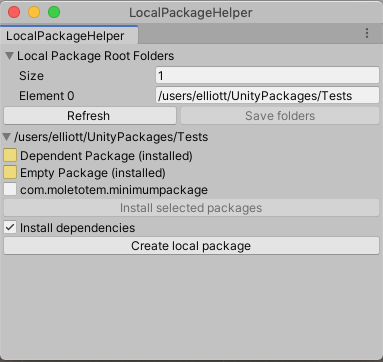
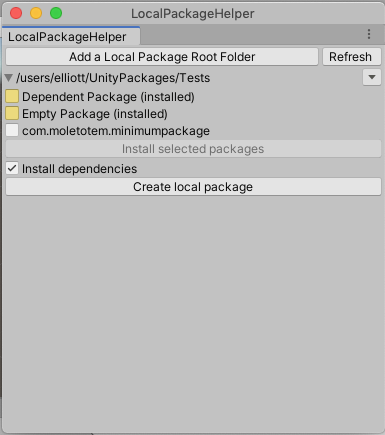
Updated documentation image and copy to reflect UI changes.

Changed region(s): [[0.0, 0.0, 1.0, 1.0], [0.9765, 0.0304, 1.0, 0.0608]]

diff --git a/Documentation/Local Package Helper.md b/Documentation/Local Package Helper.md
@@ -21,9 +21,7 @@ Open the Local Package Helper tool window under the Window menu in Unity
 
 Add at least one directory for local packages to be found and created in.
 
-Use the _Save folders_ button to write the list of folders to a config file or save modifications to the list.
-
-Use the _Refresh_ button after making changes to the list, or after making changes to local package folders externally.
+Use the _Refresh_ button after making changes to the list, or local package folders externally.
 
 The window shows local packages found in the specified root folders, and indicates if they are installed. 
 

diff --git a/README.md b/README.md
@@ -22,7 +22,7 @@ Open the Local Package Helper tool window under the Window menu in Unity
 
 ![](Documentation/images/LocalPackageHelper.png)
 
-Either use the window to add the directory for local package folders, or add a directory to _localPackageFolders.txt_ in this package folder and re-open the Local Package Helper window
+Either use the window to add directories for local package folders, or add directories to _localPackageFolders.txt_ in this package folder.
 
 The window shows available local packages and indicates if they are installed. 
 
